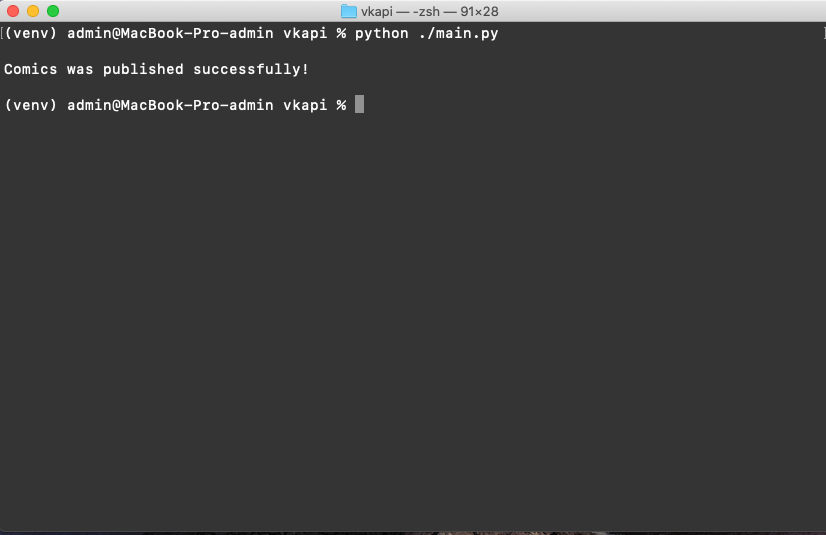
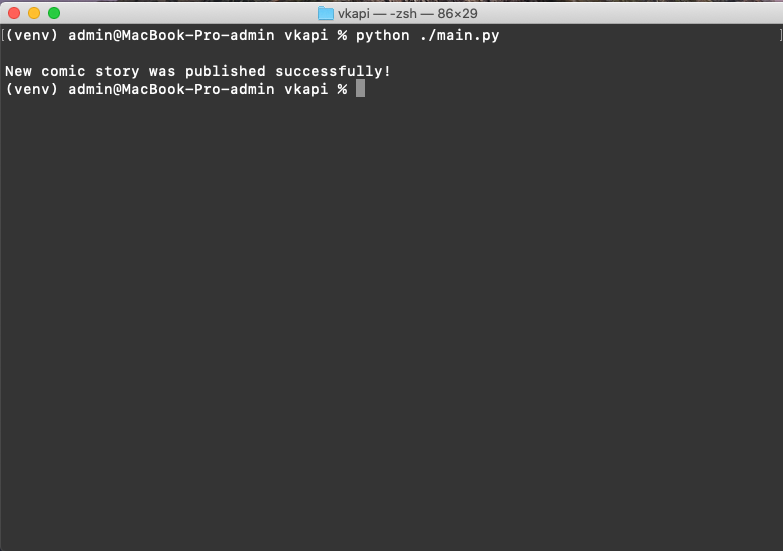
Fix tutors remarks

diff --git a/common.py b/common.py
@@ -1,55 +1,55 @@
+import os
 import random
-import pathlib
 import requests
+from urllib.parse import unquote
+from urllib.parse import urlsplit
 
 
 def get_file_name(url):
-    """Determine file name from URL"""
-    url_parts = url.split('/')
-    file_name = url_parts[-1]
+    """Extract file name from URL"""
+    file_path = urlsplit(url).path
+    file_path = unquote(file_path)
+    _, file_name = os.path.split(file_path)
     return file_name
 
 
-def download_comics_picture(url, folder=None, params={}):
-    """Download comics picture via URL link to the folder"""
+def download_comic_file(url, folder, params={}):
+    """Download comic file via URL link to the folder"""
     response = requests.get(url, params=params)
     response.raise_for_status()
 
-    comics_file_name = get_file_name(url)
-    if not folder:
-        folder = '.'
-    else:
-        pathlib.Path(folder).mkdir(parents=True, exist_ok=True)
-    comics_full_path = f'{folder}/{comics_file_name}'
-    with open(comics_full_path, 'wb') as file:
+    comic_file_name = get_file_name(url)
+    comic_file_path = os.path.join(folder, comic_file_name)
+    with open(comic_file_path, 'wb') as file:
         file.write(response.content)
-    return comics_full_path
+    return comic_file_path
 
 
-def get_total_comics_number():
-    """Determine total comics number on the xkcd.com"""
+def get_total_comic_number():
+    """Determine total comic number on the xkcd.com"""
     api_url = 'https://xkcd.com/info.0.json'
     response = requests.get(api_url)
     response.raise_for_status()
-    return response.json()['num']
+    resp_object = response.json()
+    return resp_object['num']
 
 
-def get_random_comics():
-    """Get random comics as extracted parameters: image URL, description"""
-    total_comics_num = get_total_comics_number()
-    random_comics = random.randrange(1, total_comics_num)
-    api_url = f'https://xkcd.com/{random_comics}/info.0.json'
+def get_random_comic():
+    """Get random comic as extracted parameters: image URL, description"""
+    total_comic_number = get_total_comic_number()
+    random_comic = random.randrange(1, total_comic_number)
+    api_url = f'https://xkcd.com/{random_comic}/info.0.json'
     response = requests.get(api_url)
     response.raise_for_status()
 
-    comics_json = response.json()
-    img_url = comics_json['img']
-    text_desc = comics_json['alt']
-    return (img_url, text_desc,)
+    resp_object = response.json()
+    comic_img_url = resp_object['img']
+    comic_text_desc = resp_object['alt']
+    return (comic_img_url, comic_text_desc, )
 
 
 def get_upload_server(access_token, group_id):
-    """Get VK server URL to upload comics"""
+    """Get VK server URL to upload comic file"""
     params = {
             'access_token': access_token,
             'group_id': group_id,
@@ -58,52 +58,52 @@ def get_upload_server(access_token, group_id):
     api_url = 'https://api.vk.com/method/photos.getWallUploadServer/'
     response = requests.get(api_url, params=params)
     response.raise_for_status()
+    resp_object = response.json()['response']
+    return resp_object['upload_url']
 
-    json = response.json()['response']
-    return json['upload_url']
 
-
-def upload_comics_photo(server_url, comics_photo):
-    """Upload comics photo to server"""
-    with open(comics_photo, 'rb') as file:
+def upload_to_server(server_url, comic_photo):
+    """Upload comic photo to server"""
+    with open(comic_photo, 'rb') as file:
         files = {
             'photo': file,
         }
         response = requests.post(server_url, files=files)
-        response.raise_for_status()
-    return response.json()
+    response.raise_for_status()
+    resp_object = response.json()
+    server_id = resp_object['server']
+    photo = resp_object['photo']
+    photo_hash = resp_object['hash']
+    return (server_id, photo, photo_hash, )
 
 
-def save_photo_group_album(access_token, group_id, photo_json):
+def save_photo_to_album(access_token, group_id, server_id,
+                        photo, photo_hash):
     """Save photo to a group album"""
-    server = photo_json['server']
-    photo = photo_json['photo']
-    hash = photo_json['hash']
-
     params = {
-            'server': server,
+            'server': server_id,
             'photo': photo,
-            'hash': hash,
+            'hash': photo_hash,
             'access_token': access_token,
             'group_id': group_id,
             'v': '5.131',
-        }
+    }
     api_url = 'https://api.vk.com/method/photos.saveWallPhoto/'
     response = requests.post(api_url, data=params)
     response.raise_for_status()
-    return response.json()
+
+    resp_object = response.json()
+    owner_id = resp_object['response'][0]['owner_id']
+    photo_id = resp_object['response'][0]['id']
+    return (owner_id, photo_id, )
 
 
-def publish_comics(access_token, group_id, album_json, comics_desc):
-    """Publish comics to group page on vk.com"""
-    owner_id = album_json['response'][0]['owner_id']
-    photo_id = album_json['response'][0]['id']
-    attachments = f'photo{owner_id}_{photo_id}'
-
+def publish_to_wall(access_token, group_id, owner_id, photo_id, comic_desc):
+    """Publish comic picture + funny text to the user's wall"""
     params = {
-        'message': comics_desc,
+        'message': comic_desc,
         'owner_id': f'-{group_id}',
-        'attachments': attachments,
+        'attachments': f'photo{owner_id}_{photo_id}',
         'from_group': 1,
         'access_token': access_token,
         'v': '5.131',
@@ -111,5 +111,5 @@ def publish_comics(access_token, group_id, album_json, comics_desc):
     api_url = 'https://api.vk.com/method/wall.post/'
     response = requests.post(api_url, data=params)
     response.raise_for_status()
-    json = response.json()
-    return json['response']['post_id']
+    resp_object = response.json()['response']
+    return resp_object['post_id']

diff --git a/main.py b/main.py
@@ -1,34 +1,39 @@
-import os
 import requests
+import tempfile
 from environs import Env
-from common import get_random_comics
-from common import download_comics_picture
+from common import publish_to_wall
+from common import get_random_comic
+from common import upload_to_server
 from common import get_upload_server
-from common import upload_comics_photo
-from common import save_photo_group_album
-from common import publish_comics
+from common import download_comic_file
+from common import save_photo_to_album
 
 
 def main():
     """Program entry point"""
     env = Env()
     env.read_env()
-    group_id = env('VK_COMICS_GROUP_ID')
+    group_id = env('VK_COMIC_GROUP_ID')
     access_token = env('VK_ACCESS_TOKEN')
+    folder = tempfile.TemporaryDirectory()
+    folder_name = folder.name
 
     try:
-        comics_url, comics_desc = get_random_comics()
-        comics_photo_path = download_comics_picture(comics_url)
+        comic_url, comic_desc = get_random_comic()
+        comic_file_path = download_comic_file(comic_url, folder_name)
         server_url = get_upload_server(access_token, group_id)
-        photo_json = upload_comics_photo(server_url, comics_photo_path)
-        album_json = save_photo_group_album(access_token, group_id, photo_json)
-        publish_comics(access_token, group_id, album_json, comics_desc)
+        server_id, photo, photo_hash = upload_to_server(server_url, comic_file_path)
+        owner_id, photo_id = save_photo_to_album(access_token, group_id, server_id, photo, photo_hash)
+        publish_to_wall(access_token, group_id, owner_id, photo_id, comic_desc)
+        print(f'\nNew comic story was published successfully!')
     except requests.exceptions.HTTPError:
-        print('HTTP requests error occurred. Exit from runtime...')
+        print('\nHTTP requests error occurred!')
         raise SystemExit(1)
-
-    os.remove(comics_photo_path)
-    print(f'\nComics was published successfully!\n')
+    except KeyError:
+        print('\nOoops, check your API token value in .env file!')
+        raise SystemExit(1)
+    finally:
+        folder.cleanup()
 
 
 if __name__ == '__main__':

diff --git a/README.md b/README.md
@@ -1,8 +1,8 @@
 # Description
 
-`vkapi` is a console tool to publish comics (picture + funny story) to the particular [vk.com](https://vk.com) public group page. 
+`vkapi` is a console tool to publish comic (picture + funny story) to the particular [vk.com](https://vk.com) public group page. 
 
-The comics content is downloaded from the [https://xkcd.com](https://xkcd.com/) resources.
+The comic content is downloaded from the [https://xkcd.com](https://xkcd.com/) resources.
 
 # Project Goals
 
@@ -61,7 +61,7 @@ This command installs all necessary libraries (`requests`, `environs`) into the 
 To work with [Vkontakte API](https://dev.vk.com/reference/) we need to create new file with name: `.env` and add there 2 lines:
 
 ```
-VK_COMICS_GROUP_ID=xxxx
+VK_COMIC_GROUP_ID=xxxx
 ```
 
 where `xxxx` - please, replace with your personal public group ID value.
@@ -92,9 +92,9 @@ If program runs successfully, you will see the results like these:
 
 ![Alt text](img/1.png?raw=true "vkapi")
 
-In browser open your group page, then you will see the new comics picture on the page:
+In browser open your group page, then you will see the new comic picture on the page:
 
-![Alt text](img/2.png?raw=true "comics picture")
+![Alt text](img/2.png?raw=true "comic picture")
 
 # Final steps
 
